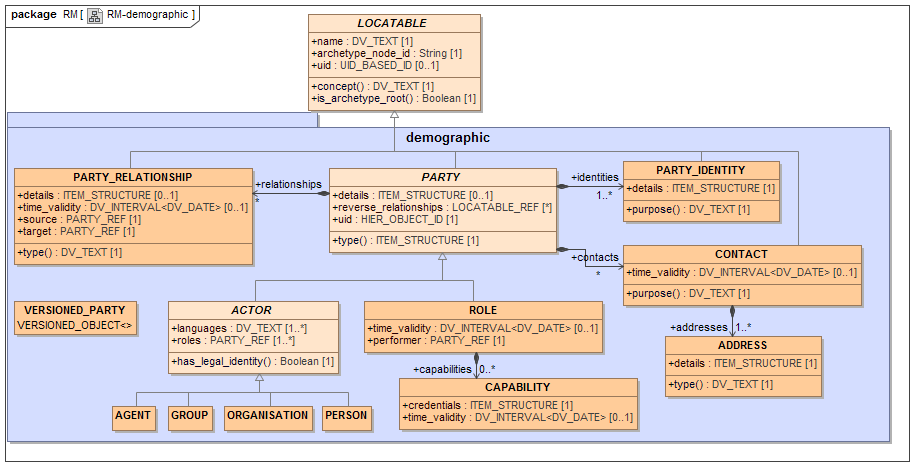
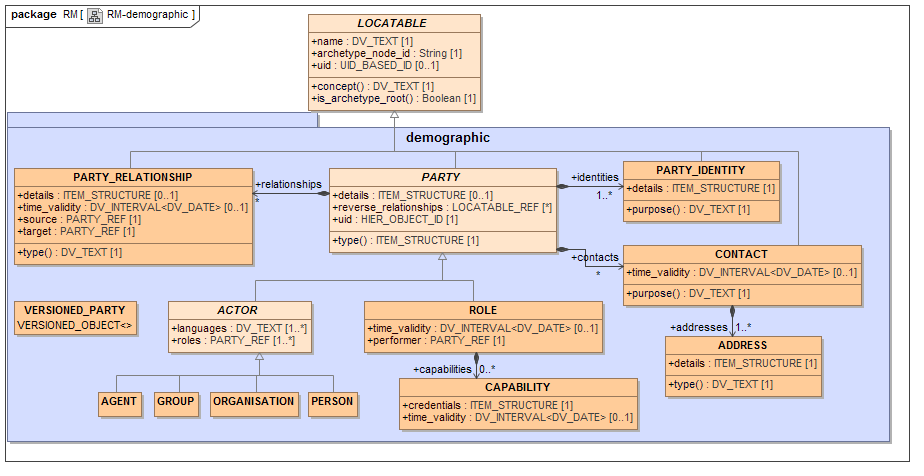
Changes for SPECRM-45 (Remove ACTOR.has_legal_entity() function)

Changed region(s): [[0.0909, 0.8235, 0.4242, 0.9118], [0.1818, 0.6176, 0.3939, 0.7941], [0.2424, 0.6176, 0.303, 0.6765]]

diff --git a/docs/demographic/demographic.html b/docs/demographic/demographic.html
@@ -193,6 +193,12 @@
 <td class="tableblock halign-left valign-top"><p class="tableblock"><a id="latest_issue_date"></a>15 Aug 2015</p></td>
 </tr>
 <tr>
+<td class="tableblock halign-left valign-top"></td>
+<td class="tableblock halign-left valign-top"><p class="tableblock"><a href="https://openehr.atlassian.net/browse/SPECRM-45">SPEC-45</a>. Remove <code>ACTOR.<em>has_legal_entity()</em></code> function.</p></td>
+<td class="tableblock halign-left valign-top"><p class="tableblock">S Iancu</p></td>
+<td class="tableblock halign-left valign-top"></td>
+</tr>
+<tr>
 <th class="tableblock halign-center valign-top" colspan="4"><p class="tableblock"><strong>R E L E A S E&#160;&#160;&#160;&#160;&#160;1.0.2</strong></p></th>
 </tr>
 <tr>
@@ -1093,24 +1099,6 @@ relatoinships of which it is the source. Every Party is stored in its own Versio
 <td class="tableblock halign-left valign-top"><p class="tableblock"><strong>roles</strong>: <code>List&lt;PARTY_REF&gt;</code></p></td>
 <td class="tableblock halign-left valign-top"><div><div class="paragraph">
 <p>Identifiers of the Version container for each Role played by this party.</p>
-</div></div></td>
-</tr>
-<tr>
-<th class="tableblock halign-center valign-top"><p class="tableblock"><strong>Functions</strong></p></th>
-<th class="tableblock halign-center valign-top"><p class="tableblock"><strong>Signature</strong></p></th>
-<th class="tableblock halign-center valign-top"><p class="tableblock"><strong>Meaning</strong></p></th>
-</tr>
-<tr>
-<th class="tableblock halign-center valign-top"></th>
-<td class="tableblock halign-left valign-top"><p class="tableblock"><strong>has_legal_identity</strong>: <code>Boolean</code></p></td>
-<td class="tableblock halign-left valign-top"><div><div class="paragraph">
-<p>True if one there is an identity with purpose  legal identity.</p>
-</div></div></td>
-</tr>
-<tr>
-<th class="tableblock halign-center valign-top"><p class="tableblock"><strong>Invariant</strong></p></th>
-<td class="tableblock halign-left valign-top" colspan="2"><div><div class="paragraph">
-<p><strong><em>Legal_identity_exists</em></strong>: has_legal_identity</p>
 </div></div></td>
 </tr>
 </tbody>
